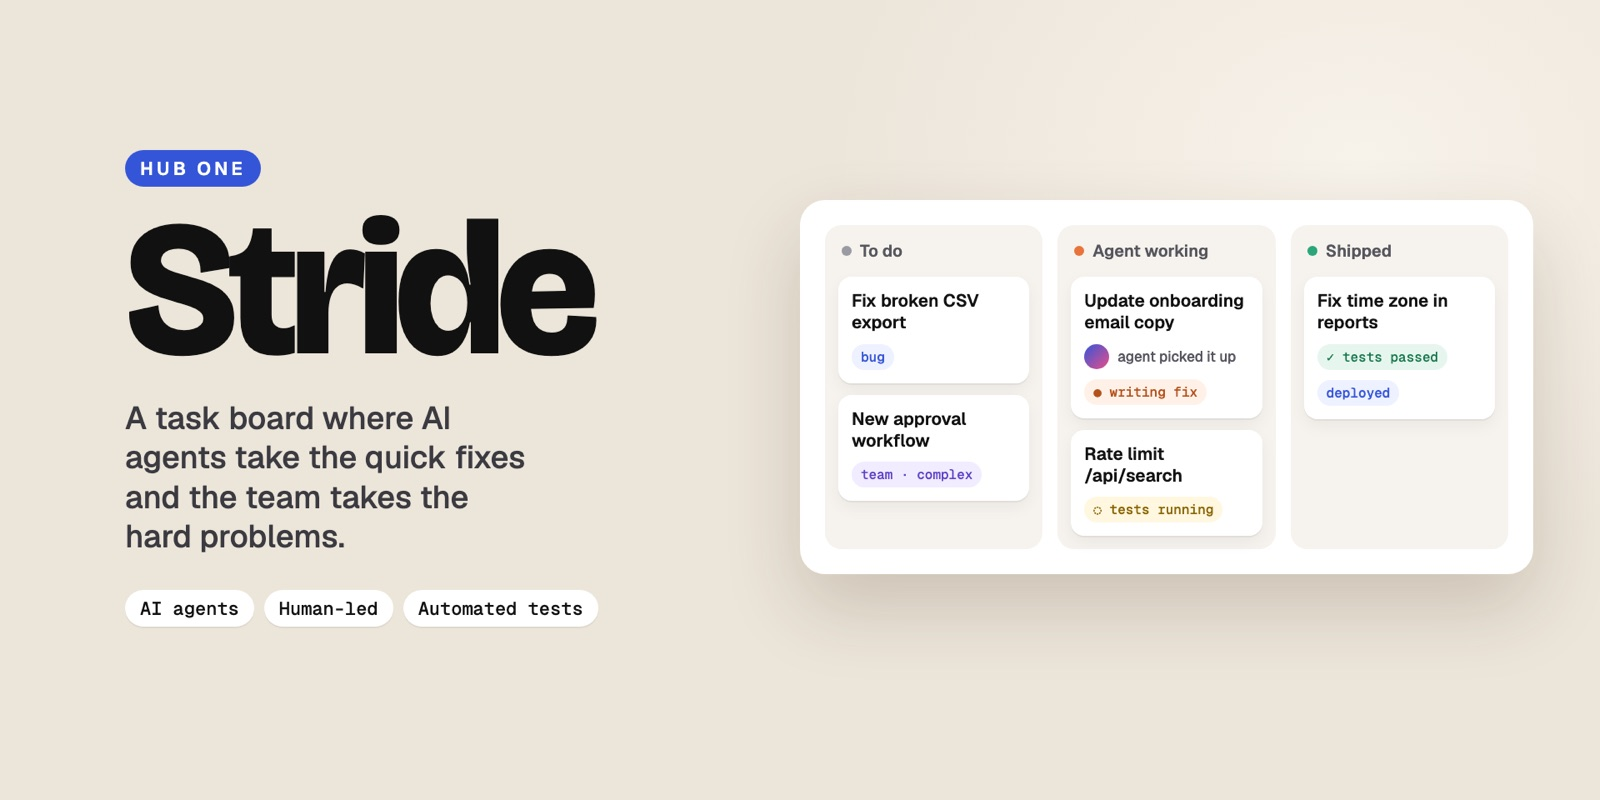
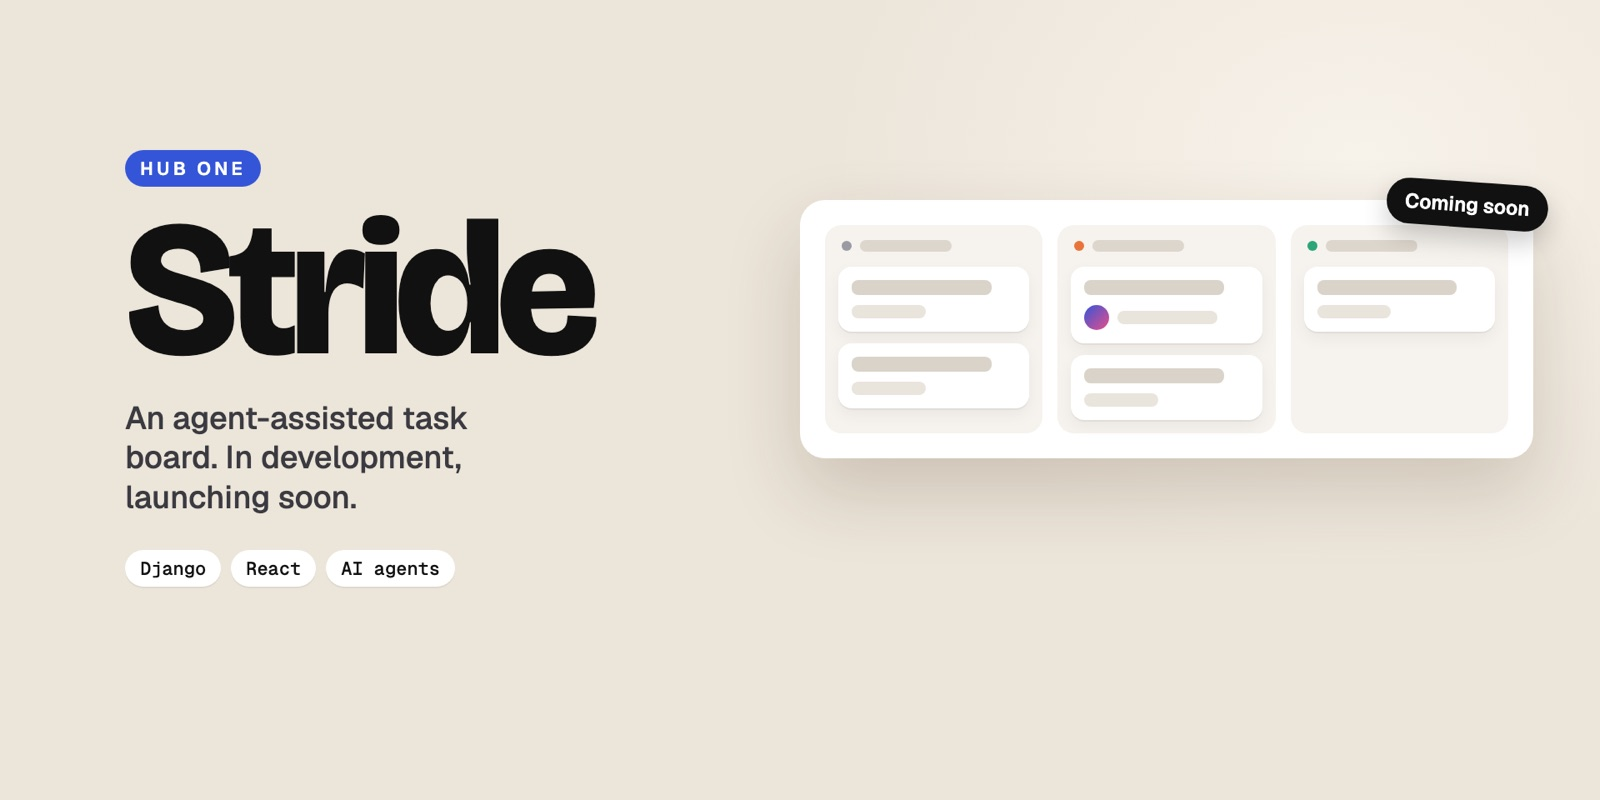
fix(work): keep Stride brief while it's in development
Stride is internal and pre-launch, so the homepage shows a short card with its Django and React stack, and the cover no longer shows board details. Goama moves into the second wide case-study slot so the grid stays even.

diff --git a/components/Introduction.js b/components/Introduction.js
@@ -36,7 +36,7 @@ export default function Introduction() {
           <Link href="https://sdsmanager.com/" isExternal color="button1" fontWeight="600">
             SDS Manager
           </Link>
-          , building ExactSDS for chemical-safety compliance and Stride, an internal task board where AI agents handle the quick fixes.
+          , building ExactSDS for chemical-safety compliance and Stride, an agent-assisted task board that&apos;s still in development.
         </Text>
       </Stack>
 
